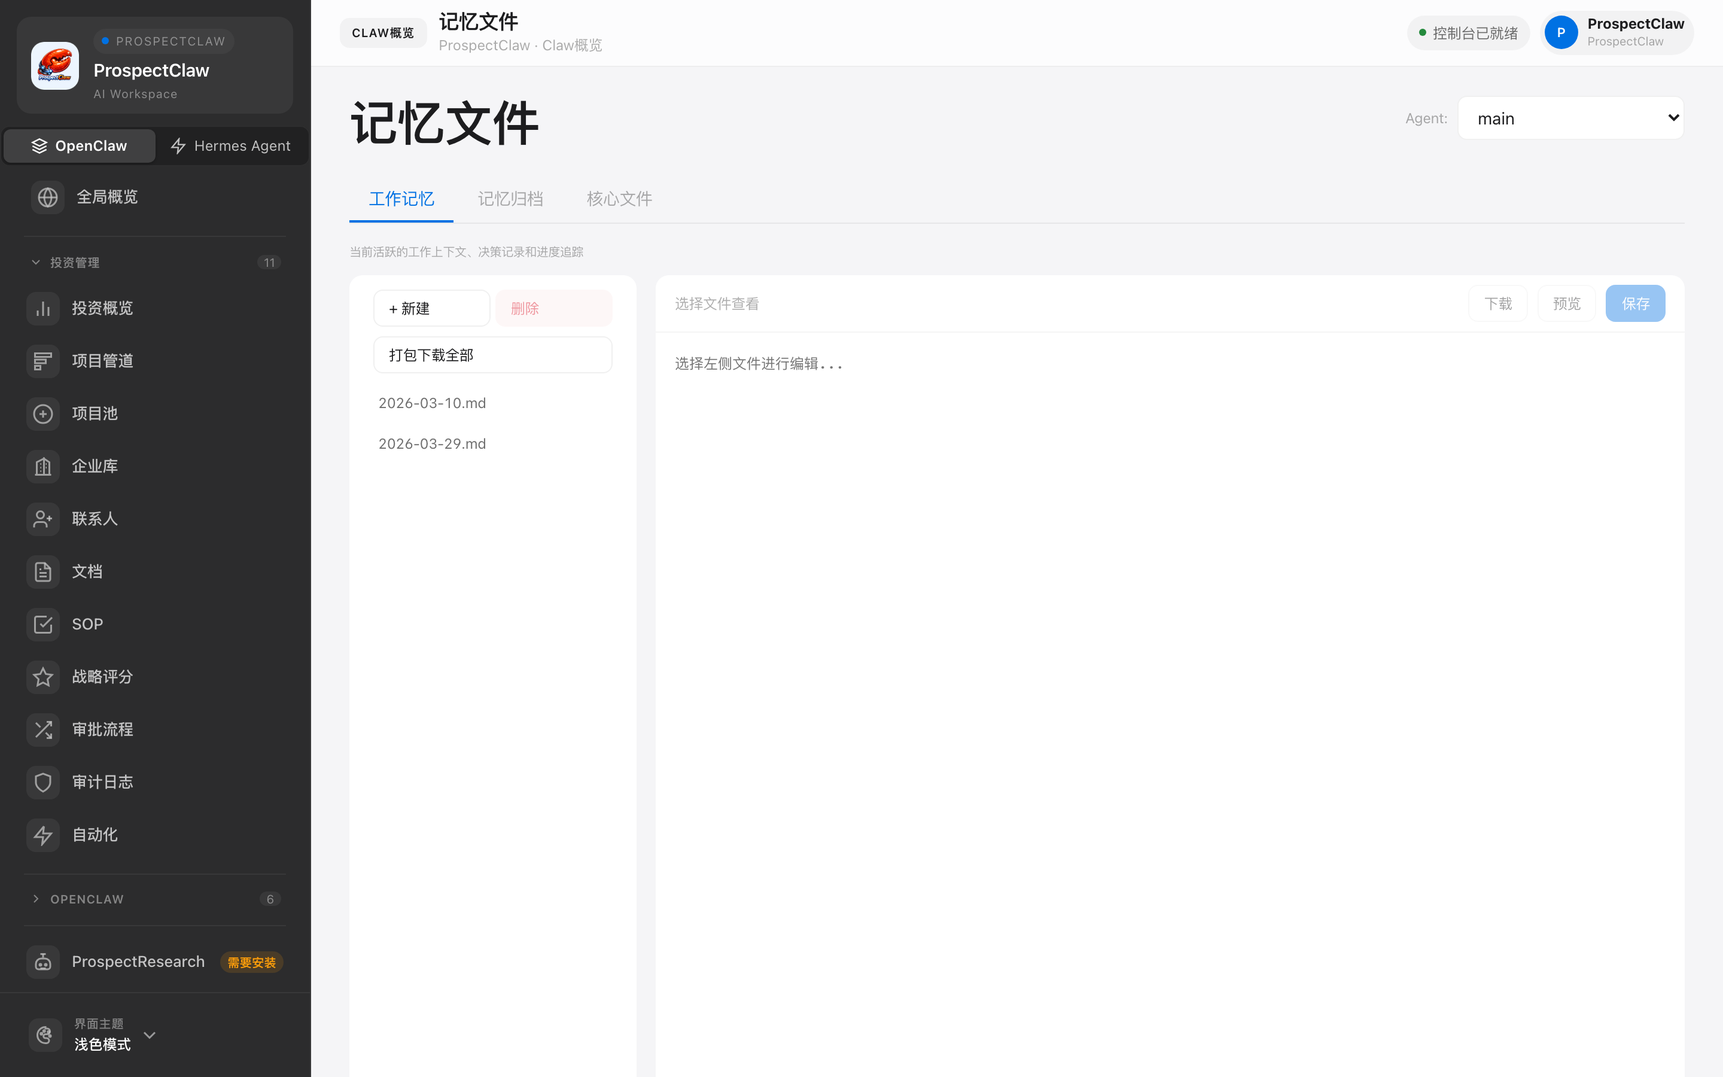
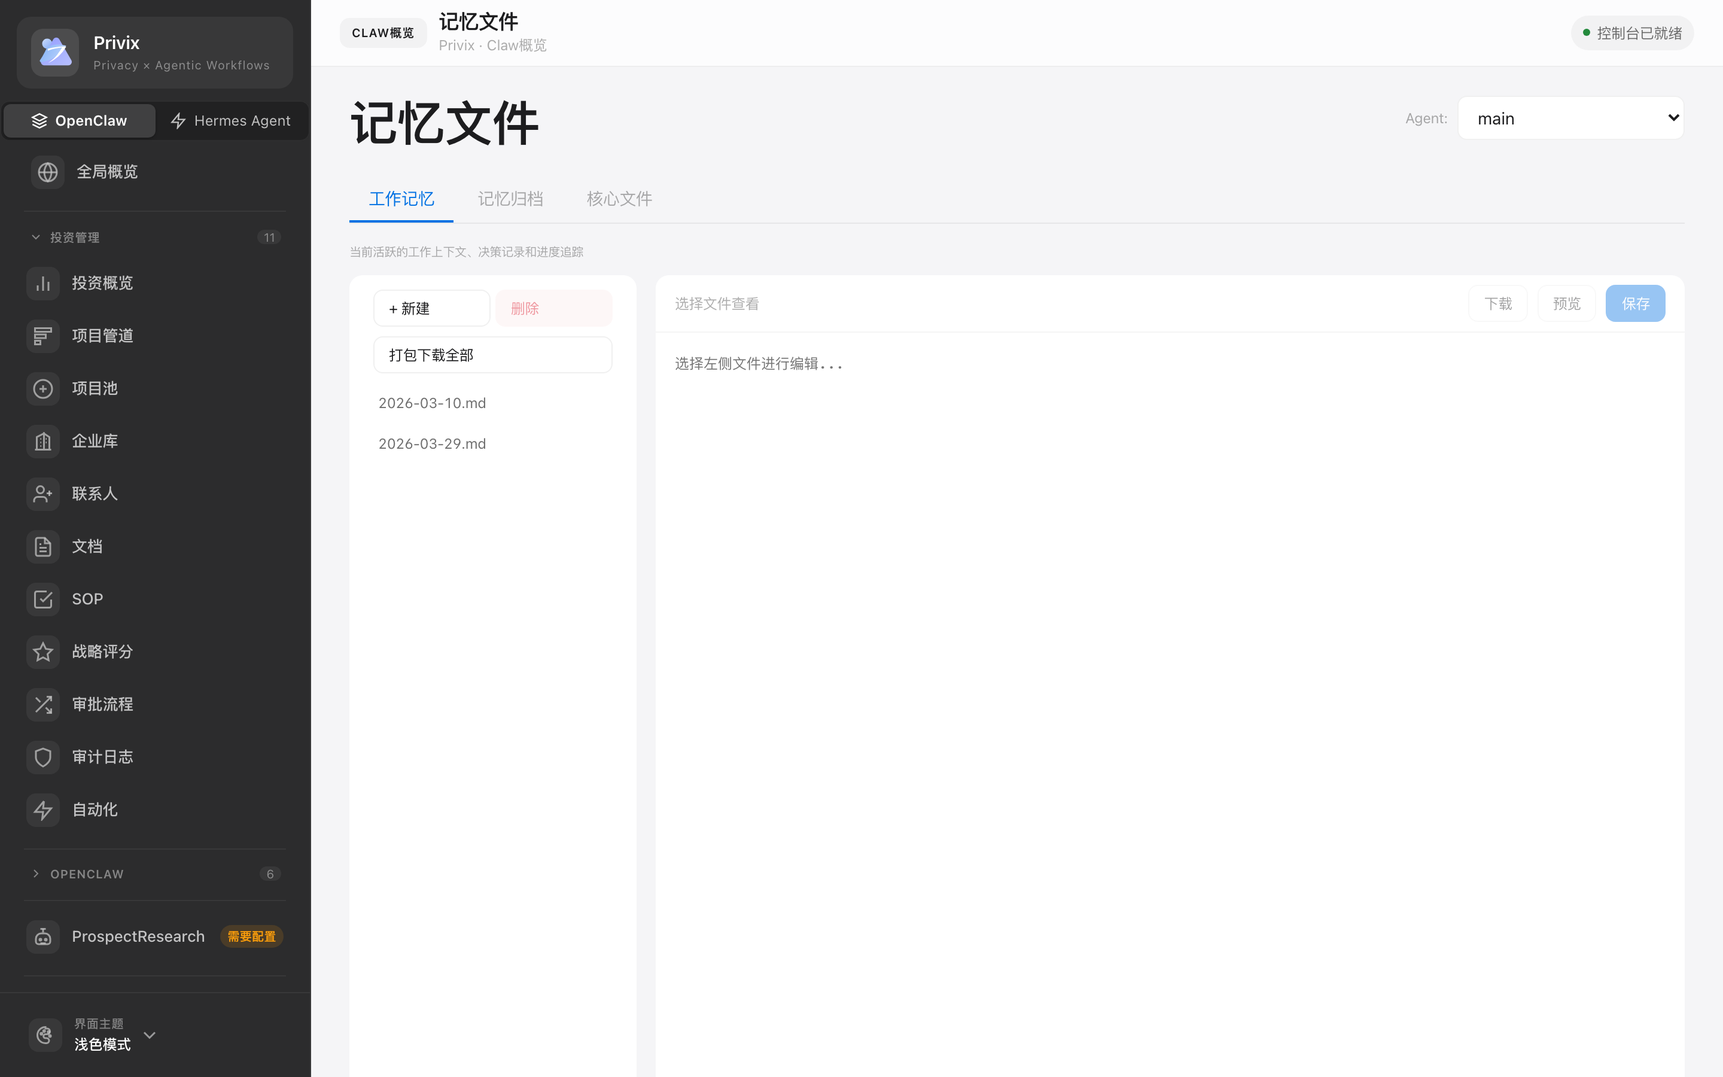
feat(brand): Privix privacy-first rebrand · refresh 10 screenshots
Hero / SEO / 技术架构全面强化 privacy 叙事,把「数据主权 / API Key 不
离机 / 离线可用 / 可审计」提到 Privix 品牌核心位置。新增「隐私优先」小节
(4 卡 · 位于五大能力区与场景化模块之间),nav 加 #privacy 入口。

- 截图刷新: overview · claw-assistant · agent-management · evoscientist
  · clawswarm · investment-dashboard · memory-panel · sop · dashboard
  (OpenClaw) 共 9 张覆盖 + 新增 desktop-hermes-dashboard.png
- 修复 index.html:208 Hermes 区误用 OpenClaw dashboard 截图的错位
- EvoScientist 截图从「未成功加载」空载页 → 完整 Market Analyst +
  Tech Architect 多 Scientist 协作场景(配合面板仓 DOM 注入)
- Hermes 截图从错路由 → 正确 /h/dashboard,Gateway Running · QC-B01 ·
  v0.13.0 · 127.0.0.1:8642 四张状态卡齐备
- i18n zh-CN / en / ja 三语同步:hero.badge/title/subtitle · tech.sqlite
  · 新增 privacy.* 整块 · nav.privacy

diff --git a/downloads/index.html b/downloads/index.html
@@ -1,0 +1,184 @@
+<!DOCTYPE html>
+<html lang="zh-CN">
+<head>
+  <meta charset="UTF-8">
+  <meta name="viewport" content="width=device-width, initial-scale=1.0">
+  <title>Privix 下载归档</title>
+  <meta name="description" content="Privix 当前版本与历史安装包归档页。包含最新 v1.4.5 下载，以及旧版 ProspectClaw 安装包留档。">
+  <meta property="og:title" content="Privix 下载归档">
+  <meta property="og:description" content="查看 Privix 当前版本下载，并访问旧版安装包归档。">
+  <meta property="og:type" content="website">
+  <meta property="og:image" content="https://www.privix.cn/screenshots/desktop-overview.png">
+  <link rel="icon" type="image/svg+xml" href="/images/privix-mark.svg">
+  <link rel="stylesheet" href="/portal.css">
+</head>
+<body>
+
+<nav class="portal-nav">
+  <div class="portal-nav-inner">
+    <a href="/index.html" class="portal-nav-brand">
+      <img src="/images/privix-mark.svg" alt="Privix">
+      Privix
+    </a>
+    <ul class="portal-nav-links">
+      <li><a href="/index.html#features">功能亮点</a></li>
+      <li><a href="/beginner-guide.html">零基础指南</a></li>
+      <li><a href="/usage-guide.html">进阶指南</a></li>
+      <li><a href="/agent-guide.html">Agent 知识库</a></li>
+    </ul>
+    <div class="portal-nav-actions">
+      <button class="theme-toggle" id="theme-toggle" title="切换主题">
+        <span class="theme-icon">&#9790;</span>
+      </button>
+      <button class="hamburger" id="hamburger" aria-label="菜单">
+        <span></span><span></span><span></span>
+      </button>
+    </div>
+  </div>
+  <div class="mobile-menu" id="mobile-menu">
+    <a href="/index.html#features">功能亮点</a>
+    <a href="/beginner-guide.html">零基础指南</a>
+    <a href="/usage-guide.html">进阶指南</a>
+    <a href="/agent-guide.html">Agent 知识库</a>
+  </div>
+</nav>
+
+<section class="hero hero-guide">
+  <div class="container hero-content">
+    <div class="hero-badge reveal">下载归档</div>
+    <h1 class="hero-title reveal">Privix 当前版本与历史安装包</h1>
+    <p class="hero-subtitle reveal">
+      顶部是当前推荐版本 <strong>v1.4.5</strong>，下面保留旧版安装包归档，方便回溯或兼容性排查。<br>
+      历史包文件名保留原样，不对旧版 ProspectClaw 资产做重命名。
+    </p>
+    <div class="hero-ctas reveal">
+      <a href="/downloads/Privix_1.4.5_aarch64.dmg" class="btn btn-primary">下载 Privix v1.4.5</a>
+      <a href="/index.html" class="btn btn-outline">回到主站</a>
+    </div>
+  </div>
+</section>
+
+<section class="section section-light">
+  <div class="container">
+    <div class="section-header reveal">
+      <div class="section-tag">Current Release</div>
+      <h2 class="section-title">当前推荐版本</h2>
+      <p class="section-subtitle">适合绝大多数用户，官网与 OTA 元数据已统一指向这个版本。</p>
+    </div>
+    <div class="download-card reveal" style="max-width:720px;margin:0 auto;">
+      <div class="download-badge">v1.4.5</div>
+      <h3 class="download-card-title">Privix 1.4.5</h3>
+      <p class="showcase-desc" style="margin-bottom:20px;">品牌版冲突修复、官网版本号与下载元数据同步、历史版本归档页补齐。</p>
+      <div class="showcase-chips" style="justify-content:center;margin-bottom:20px;">
+        <span class="chip">Apple Silicon</span>
+        <span class="chip">macOS</span>
+        <span class="chip">当前推荐</span>
+      </div>
+      <a href="/downloads/Privix_1.4.5_aarch64.dmg" class="btn btn-primary">下载 .dmg</a>
+    </div>
+  </div>
+</section>
+
+<section class="section section-dark">
+  <div class="container">
+    <div class="section-header reveal">
+      <div class="section-tag">Archive</div>
+      <h2 class="section-title">历史版本归档</h2>
+      <p class="section-subtitle">以下旧包仅作归档留存。若不是为了回滚或对照排查，建议优先使用当前 Privix 版本。</p>
+    </div>
+    <div class="docs-grid">
+      <a class="doc-card reveal" href="/downloads/ProspectClaw_1.4.3_aarch64.dmg">
+        <div class="doc-card-icon">1.4.3</div>
+        <div class="doc-card-title">ProspectClaw 1.4.3</div>
+        <div class="doc-card-desc">品牌切换前的最后一代旧命名安装包，保留原文件名。</div>
+        <div class="doc-card-link">下载旧版 →</div>
+      </a>
+      <a class="doc-card reveal" href="/downloads/ProspectClaw_1.4.2_aarch64.dmg">
+        <div class="doc-card-icon">1.4.2</div>
+        <div class="doc-card-title">ProspectClaw 1.4.2</div>
+        <div class="doc-card-desc">适合与 1.4.x 早期行为做对照时使用。</div>
+        <div class="doc-card-link">下载旧版 →</div>
+      </a>
+      <a class="doc-card reveal" href="/downloads/ProspectClaw_1.3.0_aarch64.dmg">
+        <div class="doc-card-icon">1.3.0</div>
+        <div class="doc-card-title">ProspectClaw 1.3.0</div>
+        <div class="doc-card-desc">1.3 系列归档包，保留原始命名与发布时间线。</div>
+        <div class="doc-card-link">下载旧版 →</div>
+      </a>
+      <a class="doc-card reveal" href="/downloads/ProspectClaw_1.2.8_aarch64.dmg">
+        <div class="doc-card-icon">1.2.8</div>
+        <div class="doc-card-title">ProspectClaw 1.2.8</div>
+        <div class="doc-card-desc">1.2.8 正式版，另有 fix2 与 fix3 补丁包。</div>
+        <div class="doc-card-link">下载旧版 →</div>
+      </a>
+      <a class="doc-card reveal" href="/downloads/ProspectClaw_1.2.8-fix2_aarch64.dmg">
+        <div class="doc-card-icon">1.2.8-fix2</div>
+        <div class="doc-card-title">ProspectClaw 1.2.8 Fix 2</div>
+        <div class="doc-card-desc">修订版归档，文件名保持历史原样。</div>
+        <div class="doc-card-link">下载旧版 →</div>
+      </a>
+      <a class="doc-card reveal" href="/downloads/ProspectClaw_1.2.8-fix3_aarch64.dmg">
+        <div class="doc-card-icon">1.2.8-fix3</div>
+        <div class="doc-card-title">ProspectClaw 1.2.8 Fix 3</div>
+        <div class="doc-card-desc">1.2.8 系列最后一个修订归档包。</div>
+        <div class="doc-card-link">下载旧版 →</div>
+      </a>
+      <a class="doc-card reveal" href="/downloads/ProspectClaw_1.2.5_aarch64.dmg">
+        <div class="doc-card-icon">1.2.5</div>
+        <div class="doc-card-title">ProspectClaw 1.2.5</div>
+        <div class="doc-card-desc">1.2.5 正式版，另保留 fix1 与 fix2 两个修订包。</div>
+        <div class="doc-card-link">下载旧版 →</div>
+      </a>
+      <a class="doc-card reveal" href="/downloads/ProspectClaw_1.2.5-fix1_aarch64.dmg">
+        <div class="doc-card-icon">1.2.5-fix1</div>
+        <div class="doc-card-title">ProspectClaw 1.2.5 Fix 1</div>
+        <div class="doc-card-desc">历史修订安装包，便于复现旧版本环境。</div>
+        <div class="doc-card-link">下载旧版 →</div>
+      </a>
+      <a class="doc-card reveal" href="/downloads/ProspectClaw_1.2.5-fix2_aarch64.dmg">
+        <div class="doc-card-icon">1.2.5-fix2</div>
+        <div class="doc-card-title">ProspectClaw 1.2.5 Fix 2</div>
+        <div class="doc-card-desc">1.2.5 系列第二个修订包。</div>
+        <div class="doc-card-link">下载旧版 →</div>
+      </a>
+      <a class="doc-card reveal" href="/downloads/ProspectClaw_1.2.3-fix1_aarch64.dmg">
+        <div class="doc-card-icon">1.2.3-fix1</div>
+        <div class="doc-card-title">ProspectClaw 1.2.3 Fix 1</div>
+        <div class="doc-card-desc">早期修订包，文件名使用下划线格式。</div>
+        <div class="doc-card-link">下载旧版 →</div>
+      </a>
+      <a class="doc-card reveal" href="/downloads/ProspectClaw-1.2.3-aarch64.dmg">
+        <div class="doc-card-icon">1.2.3</div>
+        <div class="doc-card-title">ProspectClaw 1.2.3</div>
+        <div class="doc-card-desc">早期正式版归档，文件名保留旧横线命名。</div>
+        <div class="doc-card-link">下载旧版 →</div>
+      </a>
+      <a class="doc-card reveal" href="/downloads/ProspectClaw-1.2.2-fix3-aarch64.dmg">
+        <div class="doc-card-icon">1.2.2-fix3</div>
+        <div class="doc-card-title">ProspectClaw 1.2.2 Fix 3</div>
+        <div class="doc-card-desc">最早一批保留在仓库中的历史安装包。</div>
+        <div class="doc-card-link">下载旧版 →</div>
+      </a>
+    </div>
+  </div>
+</section>
+
+<footer class="portal-footer">
+  <div class="container">
+    <div class="portal-footer-brand">
+      <img src="/images/privix-mark.svg" alt="Privix">
+      Privix
+    </div>
+    <div class="portal-footer-links">
+      <a href="/index.html">主站首页</a>
+      <a href="/beginner-guide.html">零基础指南</a>
+      <a href="/usage-guide.html">进阶指南</a>
+      <a href="/agent-guide.html">Agent 知识库</a>
+    </div>
+    <p class="portal-footer-copy">Copyright &copy; 2026 Privix. All rights reserved.</p>
+  </div>
+</footer>
+
+<script defer src="/portal.js"></script>
+</body>
+</html>

diff --git a/index.html b/index.html
@@ -3,10 +3,10 @@
 <head>
   <meta charset="UTF-8">
   <meta name="viewport" content="width=device-width, initial-scale=1.0">
-  <title>Privix — 本地化 AI Agent 工作台</title>
-  <meta name="description" content="Privix 是基于 Tauri v2 的本地化 AI Agent 工作台，集成 Claw 助手、ProspectResearch、Agentic Swarm、OpenClaw、Hermes 五大核心能力，双引擎架构，数据留在本地，安全可控。">
-  <meta property="og:title" content="Privix — 本地化 AI Agent 工作台">
-  <meta property="og:description" content="Claw 助手 + ProspectResearch + Agentic Swarm + OpenClaw + Hermes 五大核心能力 · OpenClaw / Hermes 双引擎架构 · 桌面本地化。">
+  <title>Privix — 隐私优先的本地化 AI Agent 工作台</title>
+  <meta name="description" content="Privix 是桌面本地化 AI Agent 工作台 —— 数据存在你自己的 SQLite，API Key 留在本地，离线可用，可审计。集成 Claw 助手、Prospect-Research、Agentic Swarm、OpenClaw、Hermes 五大核心能力，双引擎架构，隐私优先。">
+  <meta property="og:title" content="Privix — 隐私优先的本地化 AI Agent 工作台">
+  <meta property="og:description" content="Privix · 隐私优先的本地化 AI Agent 工作台。数据存本地 SQLite，API Key 不离机，离线可用。Claw 助手 + Prospect-Research + Agentic Swarm + OpenClaw + Hermes 双引擎架构。">
   <meta property="og:type" content="website">
   <meta property="og:image" content="https://www.privix.cn/screenshots/desktop-overview.png">
   <meta property="og:image:width" content="2880">
@@ -27,6 +27,7 @@
     </a>
     <ul class="portal-nav-links">
       <li><a href="#features" data-i18n="nav.features">功能亮点</a></li>
+      <li><a href="#privacy" data-i18n="nav.privacy">隐私优先</a></li>
       <li><a href="#tutorials" data-i18n="nav.tutorials">教程引导</a></li>
       <li><a href="#docs" data-i18n="nav.docs">手册</a></li>
       <li><a href="#tech" data-i18n="nav.tech">技术架构</a></li>
@@ -48,6 +49,7 @@
   </div>
   <div class="mobile-menu" id="mobile-menu">
     <a href="#features" data-i18n="nav.features">功能亮点</a>
+    <a href="#privacy" data-i18n="nav.privacy">隐私优先</a>
     <a href="#tutorials" data-i18n="nav.tutorials">教程引导</a>
     <a href="#docs" data-i18n="nav.docs">手册</a>
     <a href="#tech" data-i18n="nav.tech">技术架构</a>
@@ -58,11 +60,11 @@
 <!-- ═══════ 2. Hero ═══════ -->
 <section class="hero">
   <div class="container hero-content">
-    <div class="hero-badge reveal" data-i18n-html="hero.badge">v1.4.5 &middot; AI Agent 工作台</div>
-    <h1 class="hero-title reveal" data-i18n="hero.title">本地化 AI Agent 工作台</h1>
+    <div class="hero-badge reveal" data-i18n-html="hero.badge">v1.4.5 &middot; 隐私优先 &middot; 本地化 AI Agent</div>
+    <h1 class="hero-title reveal" data-i18n="hero.title">隐私优先的本地化 AI Agent 工作台</h1>
     <p class="hero-subtitle reveal" data-i18n-html="hero.subtitle">
-      Claw 助手 + ProspectResearch + Agentic Swarm + OpenClaw + Hermes 五大核心能力 · OpenClaw / Hermes 双引擎架构。<br>
-      无需部署服务器，~10MB 安装即用，数据留在本地，安全可控。
+      数据存在你自己的 SQLite，API Key 留在本地，离线可用。<br>
+      Claw 助手 · Prospect-Research · Agentic Swarm · OpenClaw · Hermes 五大核心能力，双引擎架构，约 10MB 安装即用。
     </p>
     <div class="hero-ctas reveal">
       <a href="#download" class="btn btn-primary" data-i18n="hero.cta_download">下载 Privix</a>
@@ -106,7 +108,7 @@
     <div class="section-header reveal">
       <div class="section-tag" data-i18n="ai.tag">Core Capabilities</div>
       <h2 class="section-title" data-i18n="ai.title">五大核心能力 · 双引擎架构</h2>
-      <p class="section-subtitle" data-i18n="ai.subtitle">Claw 助手 · ProspectResearch · Agentic Swarm · OpenClaw · Hermes —— 从单次对话到多 Agent 编排，从 OpenClaw 到 Hermes 一键切换。</p>
+      <p class="section-subtitle" data-i18n="ai.subtitle">Claw 助手 · Prospect-Research · Agentic Swarm · OpenClaw · Hermes —— 从单次对话到多 Agent 编排，从 OpenClaw 到 Hermes 一键切换。</p>
     </div>
 
     <!-- AI 助手 -->
@@ -205,7 +207,45 @@
         </div>
       </div>
       <div class="showcase-image" data-lightbox>
-        <img src="/screenshots/desktop-dashboard.png" alt="Hermes Agent 引擎">
+        <img src="/screenshots/desktop-hermes-dashboard.png" alt="Hermes Dashboard · Gateway Running">
+      </div>
+    </div>
+  </div>
+</section>
+
+<!-- ═══════ 4.5 隐私优先 — Privix 品牌核心承诺 ═══════ -->
+<section class="section section-light" id="privacy">
+  <div class="container">
+    <div class="section-header reveal">
+      <div class="section-tag" data-i18n="privacy.tag">Privacy First</div>
+      <h2 class="section-title" data-i18n="privacy.title">隐私优先 —— 不是口号，是架构选择</h2>
+      <p class="section-subtitle" data-i18n="privacy.subtitle">Privix 的每一个设计决策都以「数据留在你手里」为前提。这是产品名里的 <em>priv</em>，也是整套架构的核心。</p>
+    </div>
+
+    <div class="tech-grid">
+      <div class="tech-card reveal stagger-1">
+        <div class="tech-card-spotlight"></div>
+        <div class="tech-card-icon">&#128274;</div>
+        <h3 class="tech-card-title" data-i18n="privacy.card1_title">数据主权</h3>
+        <p class="tech-card-desc" data-i18n="privacy.card1_desc">所有项目、会话、Agent 配置存在本机 SQLite 文件。无云端副本，无强制同步。卸载即清零，删除即真正删除。</p>
+      </div>
+      <div class="tech-card reveal stagger-2">
+        <div class="tech-card-spotlight"></div>
+        <div class="tech-card-icon">&#128273;</div>
+        <h3 class="tech-card-title" data-i18n="privacy.card2_title">API Key 不离机</h3>
+        <p class="tech-card-desc" data-i18n="privacy.card2_desc">你的模型密钥加密存在本地 keychain。Privix 不做任何中转、不做"代理调用"，请求直连你配置的 Provider。</p>
+      </div>
+      <div class="tech-card reveal stagger-3">
+        <div class="tech-card-spotlight"></div>
+        <div class="tech-card-icon">&#9992;</div>
+        <h3 class="tech-card-title" data-i18n="privacy.card3_title">离线可用</h3>
+        <p class="tech-card-desc" data-i18n="privacy.card3_desc">主要功能不依赖云。断网也能查档、编辑项目、跑 SOP、浏览已下载的知识库。仅在你主动调用模型时出网。</p>
+      </div>
+      <div class="tech-card reveal stagger-4">
+        <div class="tech-card-spotlight"></div>
+        <div class="tech-card-icon">&#128196;</div>
+        <h3 class="tech-card-title" data-i18n="privacy.card4_title">可审计</h3>
+        <p class="tech-card-desc" data-i18n="privacy.card4_desc">所有操作产生本地日志。数据库、配置、日志文件路径全部公开。企业合规、内审、律师可直接查，无黑盒。</p>
       </div>
     </div>
   </div>
@@ -421,7 +461,7 @@
     <div class="section-header reveal">
       <div class="section-tag" data-i18n="tech.tag">Architecture</div>
       <h2 class="section-title" data-i18n="tech.title">专业级技术底座</h2>
-      <p class="section-subtitle" data-i18n="tech.subtitle">Rust 后端保安全、Vanilla JS 保轻量、SQLite 保隐私、OpenClaw 保智能。</p>
+      <p class="section-subtitle" data-i18n="tech.subtitle">Rust 后端保安全、Vanilla JS 保轻量、SQLite 保数据主权、OpenClaw 保智能。</p>
     </div>
 
     <div class="tech-grid">
@@ -440,8 +480,8 @@
       <div class="tech-card reveal stagger-3">
         <div class="tech-card-spotlight"></div>
         <div class="tech-card-icon">&#128274;</div>
-        <h3 class="tech-card-title" data-i18n="tech.sqlite_title">SQLite 本地存储</h3>
-        <p class="tech-card-desc" data-i18n="tech.sqlite_desc">数据留在本地，安全可控。无需部署服务器，安装即用，满足金融机构数据合规要求。</p>
+        <h3 class="tech-card-title" data-i18n="tech.sqlite_title">SQLite · 数据主权</h3>
+        <p class="tech-card-desc" data-i18n="tech.sqlite_desc">你的项目、会话、Agent 配置全部存在本机 SQLite 文件。没有云端副本，没有强制同步，删除即真正删除。金融、医疗、咨询行业可本地审计。</p>
       </div>
       <div class="tech-card reveal stagger-4">
         <div class="tech-card-spotlight"></div>

diff --git a/agent-guide.html b/agent-guide.html
@@ -55,7 +55,7 @@
 <!-- ═══════ Hero ═══════ -->
 <section class="hero hero-guide">
   <div class="container hero-content">
-    <div class="hero-badge reveal" data-i18n="agent.badge">AI Agent Reference · v1.4.3</div>
+    <div class="hero-badge reveal" data-i18n="agent.badge">AI Agent Reference · v1.4.5</div>
     <h1 class="hero-title reveal" data-i18n="agent.title">Privix Agent 知识库</h1>
     <p class="hero-subtitle reveal" data-i18n="agent.subtitle">
       这份文档是给 AI 看的。复制下面的全文，丢给钳子助手、ChatGPT、Claude 或者任何支持知识库的 AI 平台，它就能回答关于 Privix 的问题了。
@@ -72,7 +72,7 @@
   <div class="container">
 
     <div class="ai-kb-toolbar reveal">
-      <div class="guide-intro-badge" data-i18n="agent.kb_badge">Agent 知识块 v1.4.3</div>
+      <div class="guide-intro-badge" data-i18n="agent.kb_badge">Agent 知识块 v1.4.5</div>
       <button class="btn btn-primary" data-copy-target="agent-kb-full" data-i18n="agent.kb_copy">复制整段给 AI</button>
     </div>
 
@@ -80,7 +80,7 @@
 
 ## 元信息
 - 文档版本: 2026-04-14
-- 适用产品: Privix v1.4.3（单一应用，按 license 启用 Invest / Knowledge / SOP 行业模块）
+- 适用产品: Privix v1.4.5（单一应用，按 license 启用 Invest / Knowledge / SOP 行业模块）
 - 目标读者: AI Agent（钳子助手、ChatGPT、Claude 等）
 - 用途: 回答用户关于安装、配置、使用、排障的问题
 
@@ -104,7 +104,7 @@
 - 关系: Privix 以单一应用形态运行，Invest / Knowledge / SOP 行业模块均基于 OpenClaw 管理台能力构建
 - CLI: 命令行工具，用于安装/配置/管理 OpenClaw
 - Gateway: 核心后端服务，处理消息路由、Agent 执行、渠道连接
-- 推荐版本: 2026.4.8
+- 推荐版本: 2026.4.11
 
 ### 钳子助手
 - 定义: Privix 内置的独立 AI 助手（不是 OpenClaw Agent）

diff --git a/beginner-guide.html b/beginner-guide.html
@@ -55,7 +55,7 @@
 <!-- ═══════ Hero ═══════ -->
 <section class="hero hero-guide">
   <div class="container hero-content">
-    <div class="hero-badge reveal" data-i18n="beginner.badge">零基础安装指南 · 适用于 v1.4.3</div>
+    <div class="hero-badge reveal" data-i18n="beginner.badge">零基础安装指南 · 适用于 v1.4.5</div>
     <h1 class="hero-title reveal" data-i18n="beginner.title">从零开始，手把手带你用起来</h1>
     <p class="hero-subtitle reveal" data-i18n-html="beginner.subtitle">
       不用懂代码，不用会命令行。跟着下面 8 步走，半小时就能把 Privix 跑起来。

diff --git a/usage-guide.html b/usage-guide.html
@@ -55,7 +55,7 @@
 <!-- ═══════ Hero ═══════ -->
 <section class="hero hero-guide">
   <div class="container hero-content">
-    <div class="hero-badge reveal" data-i18n="usage.badge">进阶使用指南 · 适用于 v1.4.3</div>
+    <div class="hero-badge reveal" data-i18n="usage.badge">进阶使用指南 · 适用于 v1.4.5</div>
     <h1 class="hero-title reveal" data-i18n="usage.title">Privix 进阶使用指南</h1>
     <p class="hero-subtitle reveal" data-i18n-html="usage.subtitle">
       你大概知道命令行是什么，各种软件也用过不少，只是没用过 Privix。<br>
